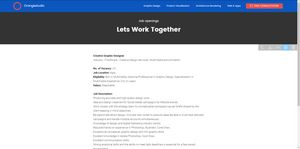
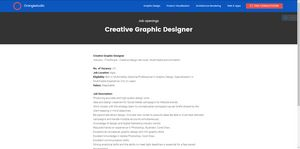
job form
update

Changed region(s): [[0.33, 0.1611, 0.66, 0.2416], [0.84, 0.2953, 1.0, 0.349], [0.93, 0.0805, 0.99, 0.1342]]

diff --git a/career.html b/career.html
@@ -101,24 +101,34 @@ Lets cwork together. Come & Join  Us !">
 </strong><br><em>Industry: IT-Software / Creative Design  Services/ Multimedia and Animation</em>
 <br><br><strong>No. of Vacancy :</strong> 01<br><strong>Job Location:</strong> Agra<br><strong>Eligibility:</strong> BSc in Multimedia, Diploma/Professional in Graphic Design, Specialization in Multimedia  Experience: 0 to 2+ years
 <br><strong>Salary:</strong> Negotiable
-<br><br><strong>Job Description:
-</strong><br>Producing accurate and high-quality design work.
-<br>Idea and design creative’s for Social Media campaigns for lifestyle brands.
-<br>Work closely with the strategy team to conceptualize campaigns as per briefs shared by the client keeping in mind objectives
-<br>Be passionate about design, innovate new routes to execute ideas Be able to multi-task between campaigns and handle multiple accounts simultaneously
-<br>Knowledge of design and Digital Marketing industry trends
-<br>Required hands on experience in Photoshop, Illustrator, Corel Draw..
-<br>Exceptional conceptual, graphic design and info graphic skills.
-<br>Excellent knowledge in Adobe Photoshop, Corel Draw.
-<br>Excellent communication skills.
-<br>Strong analytical skills and the ability to meet tight deadlines is essential for a fast-paced environment.
-<br>Working on presentations, leaflets, trade-marks, marketing materials and banner designs.
+<br><br><strong>Job Description: 
+</strong><br>Producing accurate and high-quality design work. 
+<br>Idea and design creative’s for Social Media campaigns for lifestyle brands. 
+<br>Work closely with the strategy team to conceptualize campaigns as per briefs shared by the client keeping in mind objectives 
+<br>Be passionate about design, innovate new routes to execute ideas Be able to multi-task between campaigns and handle multiple accounts simultaneously 
+<br>Knowledge of design and Digital Marketing industry trends 
+<br>Required hands on experience in Photoshop, Illustrator, Corel Draw.. 
+<br>Exceptional conceptual, graphic design and info graphic skills. 
+<br>Excellent knowledge in Adobe Photoshop, Corel Draw. 
+<br>Excellent communication skills. 
+<br>Strong analytical skills and the ability to meet tight deadlines is essential for a fast-paced environment. 
+<br>Working on presentations, leaflets, trade-marks, marketing materials and banner designs. 
 <br>
-<br><strong> To apply for this job</strong> – email your updated CV at <strong>dushyant@orangestudio.in</strong> &nbsp;or<br>Whatsapp &nbsp;@ <strong>+91&nbsp;9013667550</strong><br>
-<br></p>
+<br>To apply &nbsp;email your updated CV at <strong>dushyant@orangestudio.in</strong> or 
+<br>Whatsapp @<strong> +91 9013667550</strong> or fill out form given below.<br><br></p>
             </div>
         </div>
     </div>
+    
+ <div class="container">
+        <div class="media-container-row">
+            <div class="mbr-text col-12 col-md-8">
+      
+     <iframe src="https://docs.google.com/forms/d/e/1FAIpQLSegoRNri22b691VnyPFsH7rhJKXBrTieWRQaLSlmC5fL8xvjQ/viewform?embedded=true" width="640" height="947" frameborder="0" marginheight="0" marginwidth="0">Loading...</iframe> 
+  </div>    </div>   </div>  
+            
+    
+    
 </section>
 
 <section class="cid-r9HgcU6HBG" id="footer2-2e">

diff --git a/graphic-design.html b/graphic-design.html
@@ -127,7 +127,7 @@
                         <div data-form-alert="" hidden="">
                             Thanks for filling out the form!
                         </div>
[2 lines of base64/hex data omitted]
                             <div class="row">
                                 <div class="col-md-12" data-for="name">
                                     <input type="text" class="form-control input" name="name" data-form-field="Name" placeholder="Your Name" required="" id="name-form6-h">
@@ -187,7 +187,7 @@
                         <div data-form-alert="" hidden="">
                             Thanks for filling out the form!
                         </div>
[2 lines of base64/hex data omitted]
                             <div class="row">
                                 <div class="col-md-6 col-lg-4 mb-4 c-name" data-for="name">
                                     <input type="text" class="form-control input" name="name" data-form-field="Name" placeholder="Your Name" required="" id="name-form7-m">

diff --git a/contact.html b/contact.html
@@ -86,7 +86,7 @@
                             <div data-form-alert="" hidden="">
                                 Thanks for filling out the form!
                             </div>
[2 lines of base64/hex data omitted]
                                 <div class="row">
                                     <div class="col-md-12" data-for="name">
                                         <input type="text" class="form-control input" name="name" data-form-field="Name" placeholder="Your Name" required="" id="name-form2-13">

diff --git a/architecture.html b/architecture.html
@@ -185,7 +185,7 @@
                         <div data-form-alert="" hidden="">
                             Thanks for filling out the form!
                         </div>
[2 lines of base64/hex data omitted]
                             <div class="row">
                                 <div class="col-md-6 col-lg-4 mb-4 c-name" data-for="name">
                                     <input type="text" class="form-control input" name="name" data-form-field="Name" placeholder="Your Name" required="" id="name-form7-1u">

diff --git a/page6.html b/page6.html
@@ -115,7 +115,7 @@
                         <div data-form-alert="" hidden="">
                             Thanks for filling out the form!
                         </div>
[2 lines of base64/hex data omitted]
                             <div class="row">
                                 <div class="col-md-6 col-lg-4 mb-4 c-name" data-for="name">
                                     <input type="text" class="form-control input" name="name" data-form-field="Name" placeholder="Your Name" required="" id="name-form7-21">

diff --git a/web-servies.html b/web-servies.html
@@ -214,7 +214,7 @@
                         <div data-form-alert="" hidden="">
                             Thanks for filling out the form!
                         </div>
[2 lines of base64/hex data omitted]
                             <div class="row">
                                 <div class="col-md-6 col-lg-4 mb-4 c-name" data-for="name">
                                     <input type="text" class="form-control input" name="name" data-form-field="Name" placeholder="Your Name" required="" id="name-form7-1g">

diff --git a/product-design.html b/product-design.html
@@ -148,7 +148,7 @@
                         <div data-form-alert="" hidden="">
                             Thanks for filling out the form!
                         </div>
[2 lines of base64/hex data omitted]
                             <div class="row">
                                 <div class="col-md-6 col-lg-4 mb-4 c-name" data-for="name">
                                     <input type="text" class="form-control input" name="name" data-form-field="Name" placeholder="Your Name" required="" id="name-form7-t">
